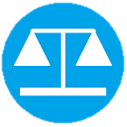
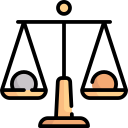
Redesigned Indicator displays

diff --git a/src/main/resources/com/infernal_crew/mini_politics/main_view.css b/src/main/resources/com/infernal_crew/mini_politics/main_view.css
@@ -169,3 +169,37 @@
 .toggle-button:hover {
     -fx-background-color: linear-gradient(#fc5c7d,#6a82fb);
 }
+
+.progress-bar {
+    -fx-background-color: #e6f7ff; /* Light blueish background for harmony */
+    -fx-background-insets: 0, 0 0 1 0;
+    -fx-background-radius: 5px;
+}
+
+.progress-bar .track {
+    -fx-background-color: #d1e0e5; /* Slightly darker shade for contrast */
+    -fx-background-radius: 5px;
+}
+
+.progress-bar-high {
+    -fx-effect: dropshadow(gaussian, rgba(0,162,232,0.7), 20, 0.0, 0, 2);
+}
+.progress-bar-low .bar{
+    -fx-background-color: linear-gradient(to right, #ff512f, #dd2476);
+}
+
+.progress-bar-medium {
+    -fx-effect: dropshadow(gaussian, rgba(255,195,0,0.7), 20, 0.0, 0, 2);
+}
+
+.progress-bar-medium .bar{
+    -fx-background-color: linear-gradient(to right, #f12711, #f5af19);
+}
+
+.progress-bar-low {
+    -fx-effect: dropshadow(gaussian, rgba(255,80,80,0.7), 20, 0.0, 0, 2);
+}
+
+.progress-bar-high .bar{
+    -fx-background-color: linear-gradient(to right, #6a82fb, #00f2fe);
+}

diff --git a/src/main/java/com/infernal_crew/mini_politics/IndicatorDisplay.java b/src/main/java/com/infernal_crew/mini_politics/IndicatorDisplay.java
@@ -42,13 +42,20 @@ public class IndicatorDisplay extends VBox {
     public void update(Game game) {
         double newValue = Math.floor(game.getIndicatorValue(Indicator.valueOf(name)) * 100) / 10000;
         this.bar.setProgress(newValue);
+        String progressBarClass = "progress-bar-high"; // default to high
+
         if (newValue < 0.15) {
-            bar.setStyle("-fx-accent: red");
+            progressBarClass = "progress-bar-low";
         } else if (newValue < 0.3) {
-            bar.setStyle("-fx-accent: yellow");
-        } else {
-            bar.setStyle("-fx-accent: #00A2E8");
+            progressBarClass = "progress-bar-medium";
         }
+
+        // Remove all possible classes to avoid style conflicts
+        this.bar.getStyleClass().removeAll("progress-bar-low", "progress-bar-medium", "progress-bar-high");
+        // Add the appropriate class based on the new value
+        this.bar.getStyleClass().add(progressBarClass);
     }
+
+
 
 }

diff --git a/README.md b/README.md
@@ -7,7 +7,9 @@ In Intellij IDEA this would be:
 File -> Project Structure -> Libraries -> moshi -> Add.
 
 ###Atributions
-
+<a href="https://www.flaticon.com/free-icons/vote" title="vote icons">Vote icons created by Freepik - Flaticon</a>  
+<a href="https://www.flaticon.com/free-icons/cohesion" title="cohesion icons">Cohesion icons created by Freepik - Flaticon</a>
+<a href="https://www.flaticon.com/free-icons/stability" title="stability icons">Stability icons created by Freepik - Flaticon</a>
 <a href="https://www.flaticon.com/free-icons/sword" title="sword icons">Sword icons created by Freepik - Flaticon</a>
 <a href="https://www.flaticon.com/free-icons/political-party" title="political party icons">Political party icons created by Freepik - Flaticon</a>
 <a href="https://www.flaticon.com/free-icons/budget" title="budget icons">Budget icons created by khulqi Rosyid - Flaticon</a>
